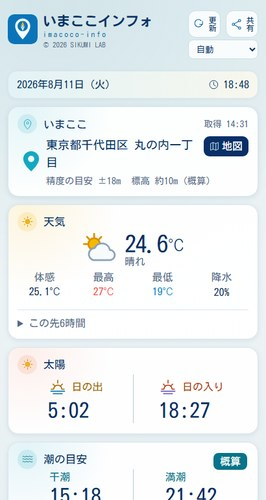
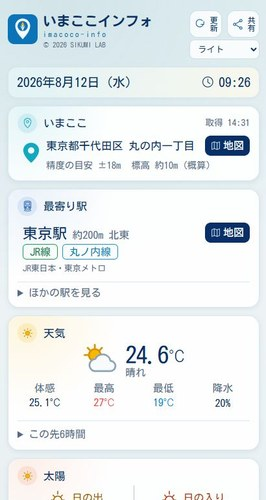
Add files via upload

diff --git a/index.html b/index.html
@@ -135,6 +135,27 @@ button.more:focus-visible,a.visit:focus-visible{outline:2px solid var(--navy-lif
   letter-spacing:.04em;color:var(--navy);
 }
 
+/* ---- maker ---- */
+.maker{padding:64px 0 0;border-top:1px solid var(--line);margin-top:64px}
+.maker h2{font-size:17px;font-weight:600;letter-spacing:.04em;color:var(--navy);margin-bottom:16px}
+.maker p{font-size:14px;color:var(--muted);max-width:44em}
+.maker p + p{margin-top:12px}
+.maker .strand{
+  margin-top:14px;padding-left:14px;border-left:2px solid var(--line);
+  font-size:14px;color:var(--muted);line-height:2;
+}
+.maker .body{display:none}
+.maker .body.open{padding-top:16px}
+.maker .body.open{display:block}
+.maker .lead{font-size:14px;color:var(--muted);max-width:44em;margin-bottom:14px}
+.maker .sign{
+  margin-top:26px;padding-top:18px;border-top:1px solid var(--line-soft);
+}
+.maker .sign b{
+  display:block;font-family:var(--mono);font-size:13px;letter-spacing:.06em;
+  color:var(--navy);font-weight:600;margin-bottom:6px;
+}
+
 /* ---- about / footer ---- */
 .about{padding:64px 0 0;border-top:1px solid var(--line);margin-top:64px}
 .about h2{font-size:17px;font-weight:600;letter-spacing:.04em;color:var(--navy);margin-bottom:16px}
@@ -229,6 +250,29 @@ body.lb-open{overflow:hidden}
   <p>そして一見難しそうに見えるものも、ほどいていくと、小さくて簡単な仕組みの組み合わせでできています。難しいのは個々の部品ではなく、それをどう組むかの方でした。</p>
   <p>いま手こずっているのは、UI/UXの設計です。動くものは作れても、使う人にとって自然な形にするのは別の難しさがあります。ここも手順として整理できないか、落ち着いたら考えるつもりです。</p>
   <p>ほどいて分かった小さな仕組みを、今度は組み合わせてみたい。それぞれは地味でも、掛け合わせれば化学反応のように、想像もつかない面白いものになるかもしれません。</p>
+</div>
+
+<div class="maker">
+  <h2>つくっている人</h2>
+  <p class="lead">シクミラボをつくっている人のことです。</p>
+  <button class="more" type="button" aria-expanded="false" aria-controls="maker-body">読む</button>
+  <div class="body" id="maker-body">
+  <p>仕組みを知ると自分でも組み立ててみたくなります。</p>
+  <p>子どものころから、工作とプラモデルばかり作っていました。時計などの機械を分解して親に怒られることもありました。壊したかったわけではなく、どうして動くのか、中がどうなっているのかを知りたかったのだと思います。</p>
+  <p>部品を見て、仕組みを考え、組み立てて、動くか確かめる。うまくいかなければ原因を探して、もう一度やってみる。Webアプリを作っている今もやっていることはあまり変わりません。</p>
+  <p>芸術大学では放送を専攻し、脚本や絵コンテを書き、その後アニメーション作品の脚本も担当しました。卒業してからは、測量業、ギター講師、音楽制作、設備のメンテナンス、サービス業など、いくつもの仕事を経験しました。40歳を前にIT業界へ移り、通信設備の工事と業務システムの開発に携わるようになりました。打ち合わせから設計、開発、運用保守までを担当し、業務の自動化にも関わってきました。</p>
+  <p>一見すると、ばらばらな経歴かもしれません。けれど自分の中では、ずっと同じことを続けてきた感覚があります。</p>
+  <p class="strand">シンセサイザーの音を波形から組み立てる。<br>アナログ基板を配線する。<br>脚本で場面の流れを組み立てる。<br>現場の段取りを整える。<br>業務の流れをシステムに置き換える。</p>
+  <p>ギターを教えるときには、相手がどこでつまずいているのかを探し、その人に伝わる説明を考えてきました。</p>
+  <p>どれも複雑なものをいったんほどき、分かる形に組み直す作業だったように思います。</p>
+  <p>シクミラボで作っているものも、その延長です。新しい技術を知っただけで終わらせず、自分の手で試し、実際に動くところまで持っていく。そして、できるだけ使う人にとって分かりやすい形に整える。完成したものだけでなく、途中で迷ったことや、うまくいかなかったことも次に作るための材料だと考えています。</p>
+  <p>興味の向く先は一つではありません。そのぶん一つの課題を、技術、現場、表現、使う人の視点から見られるようになりました。</p>
+  <p>ここでは、そうして生まれた小さな仕組みを公開しています。</p>
+  <div class="sign">
+    <b>gerupon</b>
+    <p>シクミラボでいろいろな仕組みをつくっている人。<br>猫のもなかと暮らしています。<br>ギターと戦闘機、ビールと海鮮を愛する。<br>1970年代生まれ。</p>
+  </div>
+  </div>
 </div>
 
 <div class="about">
@@ -781,6 +825,23 @@ main.innerHTML = SECTIONS.map(sec => `
     <div class="grid">${sec.items.map(it => cardHTML(it, n++)).join('')}</div>
   </section>`).join('');
 
+const makerBox = document.querySelector('.maker');
+
+/* 開いているものを全部閉じる（記録・つくっている人） */
+function closeAll(){
+  main.querySelectorAll('.record.open').forEach(r => r.classList.remove('open'));
+  main.querySelectorAll('button.more[aria-expanded="true"]').forEach(b => {
+    b.setAttribute('aria-expanded','false');
+    b.textContent = '記録を読む';
+  });
+  if(makerBox){
+    const mb = makerBox.querySelector('.body');
+    const bt = makerBox.querySelector('button.more');
+    if(mb) mb.classList.remove('open');
+    if(bt){ bt.setAttribute('aria-expanded','false'); bt.textContent = '読む'; }
+  }
+}
+
 main.addEventListener('click', e => {
   const btn = e.target.closest('button.more');
   if(!btn) return;
@@ -788,11 +849,7 @@ main.addEventListener('click', e => {
   const willOpen = !rec.classList.contains('open');
 
   // 開いている記録は常に1つだけにする
-  main.querySelectorAll('.record.open').forEach(r => r.classList.remove('open'));
-  main.querySelectorAll('button.more[aria-expanded="true"]').forEach(b => {
-    b.setAttribute('aria-expanded','false');
-    b.textContent = '記録を読む';
-  });
+  closeAll();
 
   if(willOpen){
     rec.classList.add('open');
@@ -800,6 +857,21 @@ main.addEventListener('click', e => {
     btn.textContent = '閉じる';
   }
 });
+
+if(makerBox){
+  makerBox.addEventListener('click', e => {
+    const btn = e.target.closest('button.more');
+    if(!btn) return;
+    const body = makerBox.querySelector('.body');
+    const willOpen = !body.classList.contains('open');
+    closeAll();
+    if(willOpen){
+      body.classList.add('open');
+      btn.setAttribute('aria-expanded','true');
+      btn.textContent = '閉じる';
+    }
+  });
+}
 
 /* -------------------------------------------------------------
    用語ツールチップ
@@ -964,7 +1036,7 @@ const BLOCK = ["AI-OCR"];
     }
   }
 
-  ['.hero','#works','.learn','.about'].forEach(sel => {
+  ['.hero','#works','.learn','.maker','.about'].forEach(sel => {
     const el = document.querySelector(sel); if(el) markup(el);
   });
 
@@ -1004,16 +1076,19 @@ document.addEventListener('click', e => {
   if(e.target.closest('button.more')) return;          // 開閉ボタンはアコーディオン側に任せる
   if(e.target.closest('#tip')) return;                 // 用語パネル内は対象外
 
+  const openMaker = makerBox && makerBox.querySelector('.body.open');
+  if(openMaker){
+    if(makerBox.contains(e.target)) return;             // 同じセクションの中なら開いたまま
+    closeAll();
+    return;
+  }
+
   const openRec = main.querySelector('.record.open');
   if(!openRec) return;
   const ownCard = openRec.closest('.card');
   if(ownCard && ownCard.contains(e.target)) return;    // 同じカードの中なら開いたまま
 
-  openRec.classList.remove('open');
-  main.querySelectorAll('button.more[aria-expanded="true"]').forEach(b => {
-    b.setAttribute('aria-expanded','false');
-    b.textContent = '記録を読む';
-  });
+  closeAll();
 });
 
 /* -------------------------------------------------------------
